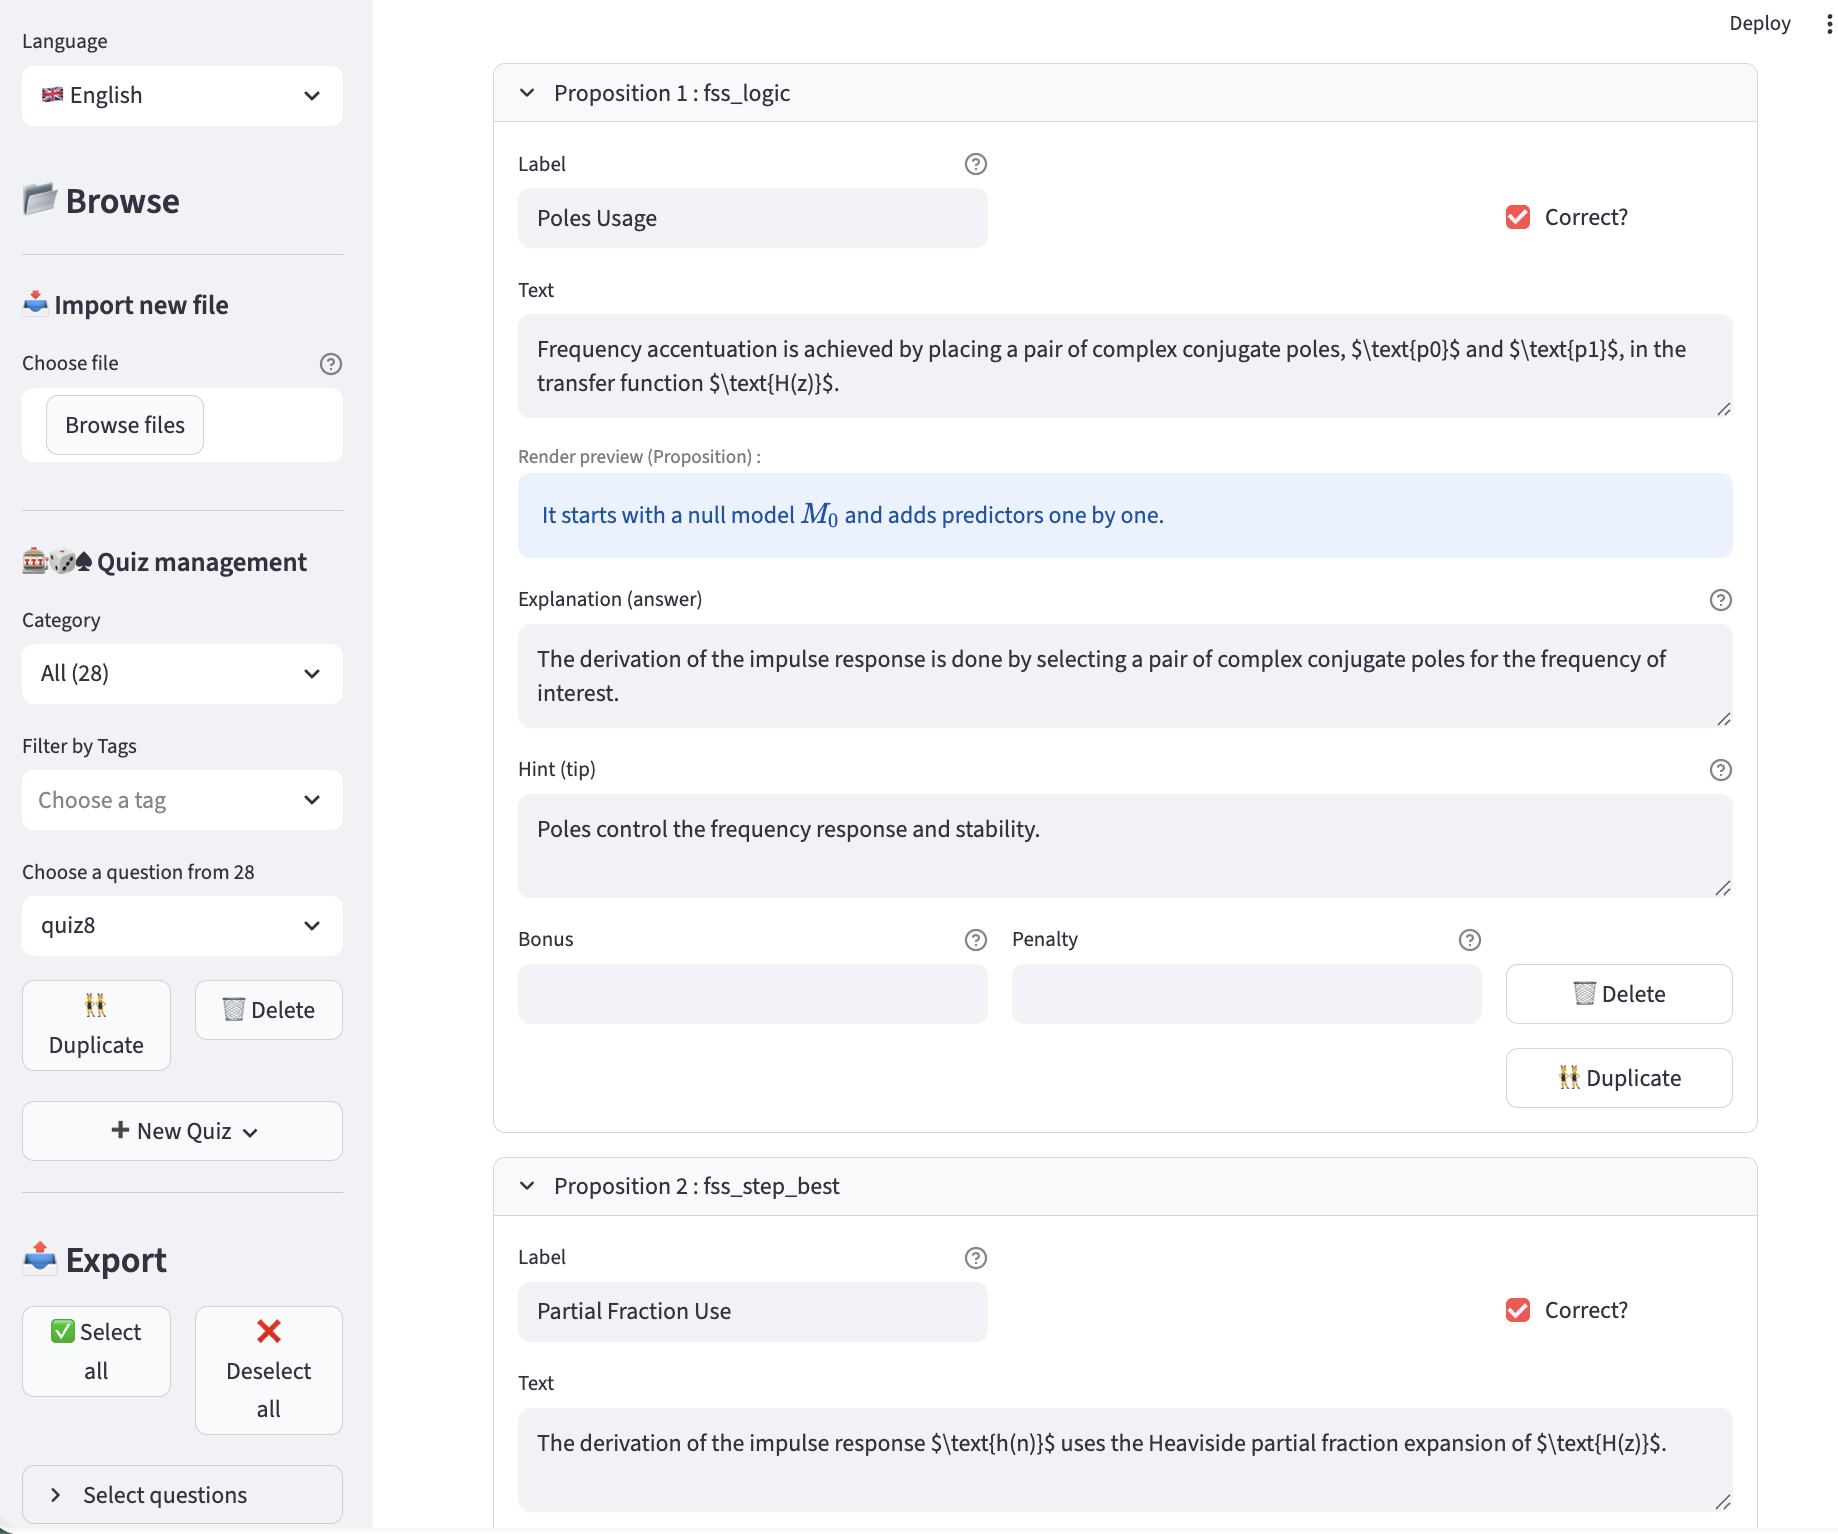
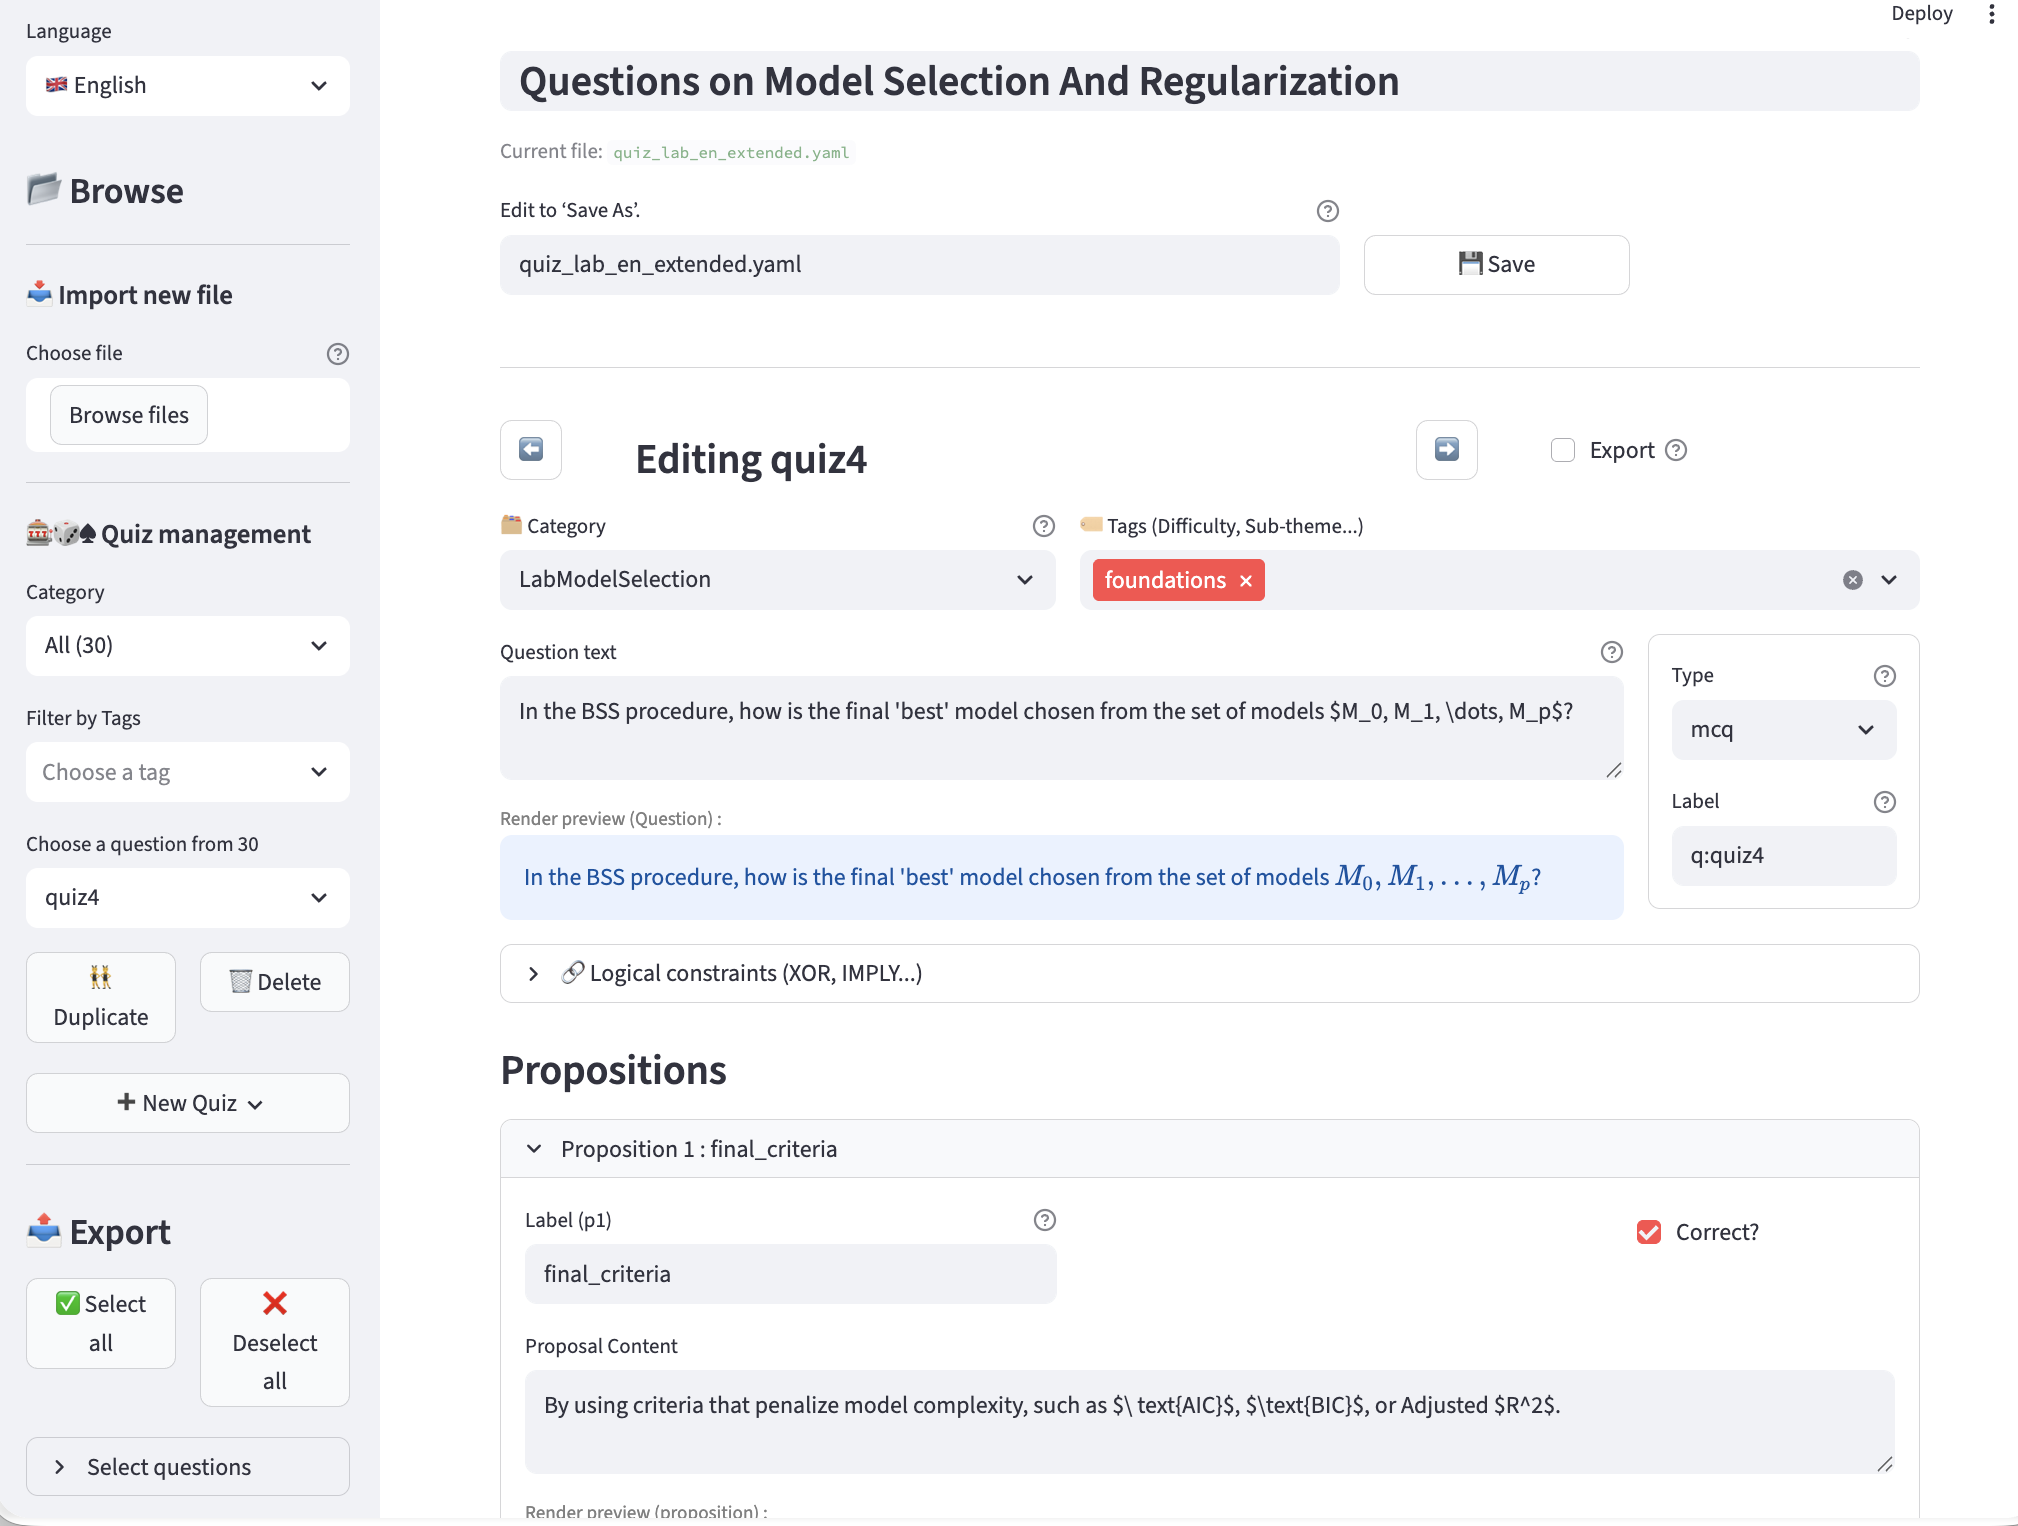
Update docs (change some figures)

diff --git a/README.md b/README.md
@@ -80,7 +80,7 @@ Figure: Overview of the `LabQuiz` ecosystem. Dashed arrows indicate optional com
 # From source
    pip install git+https://github.com/jfbercher/labquiz.git
 # or from PyPI
-   pip install labquiz
+   pip install labquizbundle
 ```
 
 ---
@@ -283,6 +283,14 @@ It connects to your Google Sheet backend and provides:
 
 Online version:
 👉 [https://jfb-quizdash.streamlit.app/](https://jfb-quizdash.streamlit.app/)
+
+Install locally:
+
+```bash
+pip install quiz-dash
+```
+
+
 
 ![Dashboard](https://github.com/jfbercher/labquiz/raw/main/docs/doc_images/Monitoring_marks.png)
 
